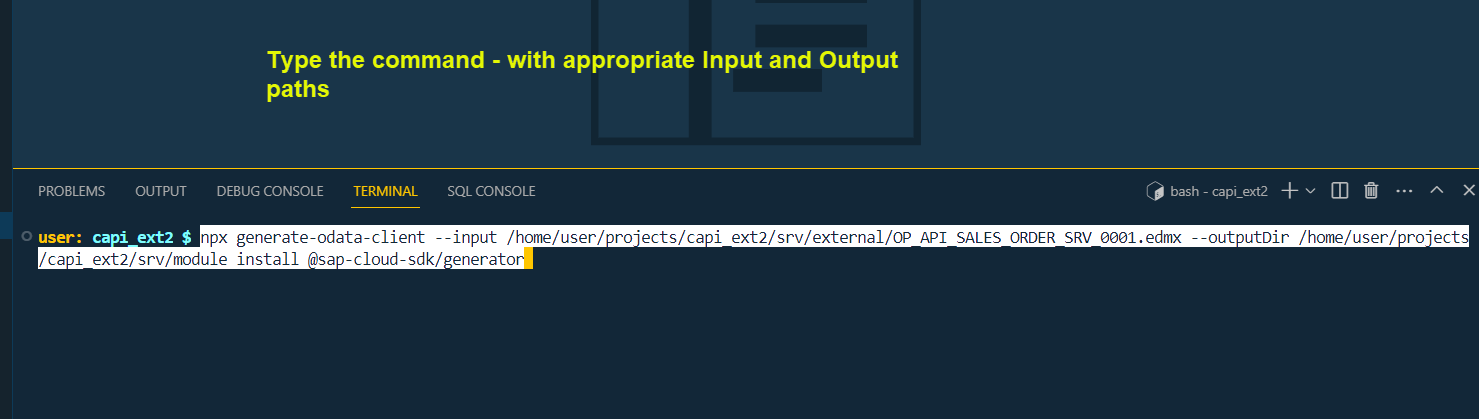
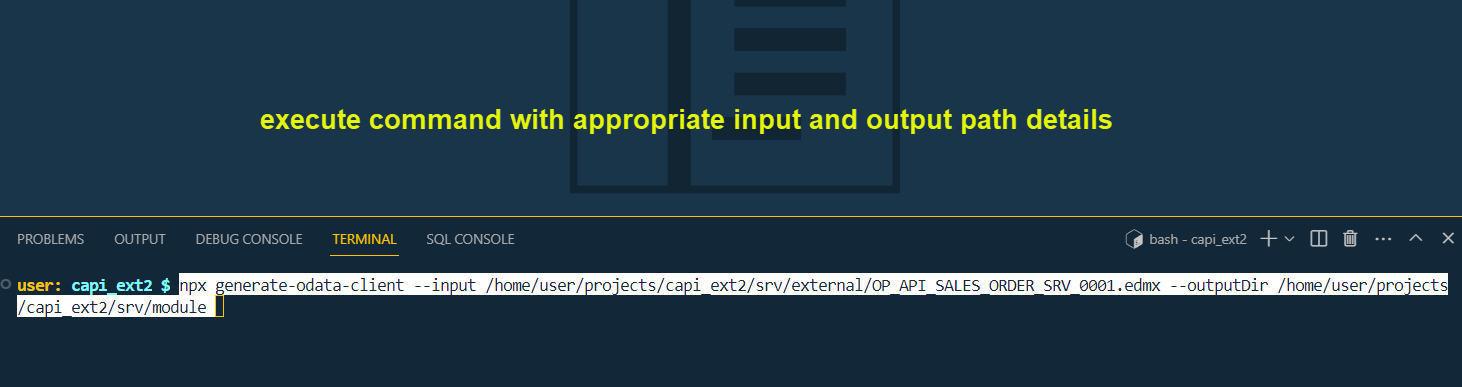
ss

diff --git a/CAPM-DAY-11/Readme.md b/CAPM-DAY-11/Readme.md
@@ -401,7 +401,7 @@ npx generate-odata-client --input path/to/your/service-specifications --outputDi
 // Command with actual values 
 // -- input - EDMX file path from external folder | -- Output - Module folder in srv folder (\srv\module)
 
-npx generate-odata-client --input /home/user/projects/capi_ext2/srv/external/OP_API_SALES_ORDER_SRV_0001.edmx --outputDir /home/user/projects/capi_ext2/srv/module install @sap-cloud-sdk/generator
+npx generate-odata-client --input /home/user/projects/capi_ext2/srv/external/OP_API_SALES_ORDER_SRV_0001.edmx --outputDir /home/user/projects/capi_ext2/srv/module 
 
 ```
 
